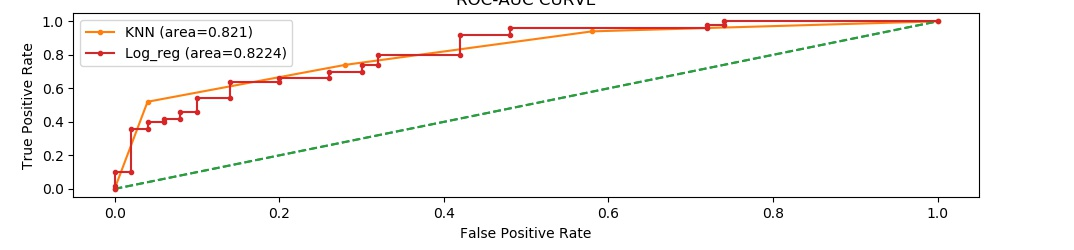
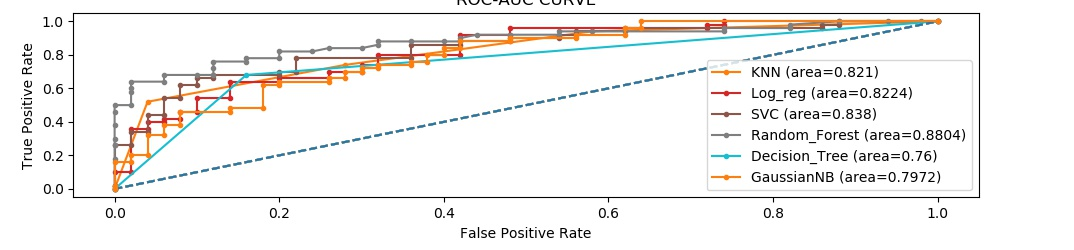
Added SVC,Decision trees,NB,Random Forest
Added additional classifer models such as SVC,Decision Trees,Gaussian NB,Random Forest

diff --git a/classification_models.py b/classification_models.py
@@ -63,7 +63,52 @@ def fit_logistic_reg(xtrain,xval,ytrain,yval,stratified_splitter):
     model_results = evaluate_performance(estimator=estimator,xval=xval,yval=yval,model_name='Log_reg')
 
     return estimator, model_results
+def fit_svc(xtrain,xval,ytrain,yval,stratified_splitter):
+    from sklearn.svm import SVC
+    
+    estimator = SVC(probability=True, random_state=101)
+    params = {'C' : [1,10,100], 'kernel' : ['rbf', 'linear'], 'gamma' : ['scale', 'auto']}
+    scoring = {'Precision':'precision','Accuracy':make_scorer(accuracy_score),'AUC':'roc_auc'}
+    random_search = RandomizedSearchCV(estimator=estimator,param_distributions=params,scoring=scoring,refit='AUC',
+                                        n_jobs=-1,cv=stratified_splitter,random_state=101,return_train_score=True)
+    random_search.fit(xtrain,ytrain.flatten())
+    estimator = random_search.best_estimator_
+    model_results = evaluate_performance(estimator=estimator,xval=xval,yval=yval,model_name='SVC')
+    return estimator,model_results
 
+def fit_random_forest(xtrain,xval,ytrain,yval,stratified_splitter):
+    from sklearn.ensemble import RandomForestClassifier
+    
+    estimator = RandomForestClassifier(random_state=101,n_jobs=-1)
+    params = {'n_estimators' : [10,100,200], 'criterion' : ['gini', 'entropy']}
+    scoring = {'Precision':'precision','Accuracy':make_scorer(accuracy_score),'AUC':'roc_auc'}
+    random_search = RandomizedSearchCV(estimator=estimator,param_distributions=params,scoring=scoring,refit='AUC',
+                                        n_jobs=-1,cv=stratified_splitter,random_state=101,return_train_score=True)
+    random_search.fit(xtrain,ytrain.flatten())
+    estimator = random_search.best_estimator_
+    model_results = evaluate_performance(estimator=estimator,xval=xval,yval=yval,model_name='Random_Forest')
+    return estimator,model_results
+
+def fit_decision_tree(xtrain,xval,ytrain,yval,stratified_splitter):
+    from sklearn.tree import DecisionTreeClassifier
+    
+    estimator = DecisionTreeClassifier(random_state=101)
+    params = {'criterion' : ['gini', 'entropy'], 'splitter' : ['best', 'random']}
+    scoring = {'Precision':'precision','Accuracy':make_scorer(accuracy_score),'AUC':'roc_auc'}
+    random_search = RandomizedSearchCV(estimator=estimator,param_distributions=params,scoring=scoring,refit='AUC',
+                                        n_jobs=-1,cv=stratified_splitter,random_state=101,return_train_score=True)
+    random_search.fit(xtrain,ytrain.flatten())
+    estimator = random_search.best_estimator_
+    model_results = evaluate_performance(estimator=estimator,xval=xval,yval=yval,model_name='Decision_Tree')
+    return estimator,model_results
+
+def fit_GaussianNB(xtrain,xval,ytrain,yval,stratified_splitter):
+    from sklearn.naive_bayes import GaussianNB
+    
+    estimator = GaussianNB()
+    estimator.fit(xtrain,ytrain.flatten())
+    model_results = evaluate_performance(estimator=estimator,xval=xval,yval=yval,model_name='GaussianNB')
+    return estimator,model_results
 
 def model_fitter(xtrain,ytrain,xval,yval):
     from sklearn.model_selection import StratifiedShuffleSplit
@@ -77,7 +122,10 @@ def model_fitter(xtrain,ytrain,xval,yval):
     all_estimators['KNN'],results['KNN'] = fit_knn(xtrain,xval,ytrain,yval,stratified_splitter)
     if len(np.unique(yval)) <= 2:
         all_estimators['Log_reg'],results['Log_reg'] = fit_logistic_reg(xtrain,xval,ytrain,yval,stratified_splitter)
-
+    all_estimators['SVC'],results['SVC'] = fit_svc(xtrain,xval,ytrain,yval,stratified_splitter)
+    all_estimators['Random_Forest'],results['Random_Forest'] = fit_random_forest(xtrain,xval,ytrain,yval,stratified_splitter)
+    all_estimators['Decision_Tree'],results['Decision_Tree'] = fit_decision_tree(xtrain,xval,ytrain,yval,stratified_splitter)
+    all_estimators['GaussianNB'],results['GaussianNB'] = fit_GaussianNB(xtrain,xval,ytrain,yval,stratified_splitter)
     plt.show()
     
     return all_estimators,results

diff --git a/driver.py b/driver.py
@@ -5,7 +5,9 @@ warnings.filterwarnings("ignore")
 data,status = validate_data('diabetes.csv')
 
 if status :
-
+    from eda import explore_data
+    explore_data(data=data)
+    
     from preprocessing import preprocessor
     x,y,pbm_type = preprocessor(data)
     
